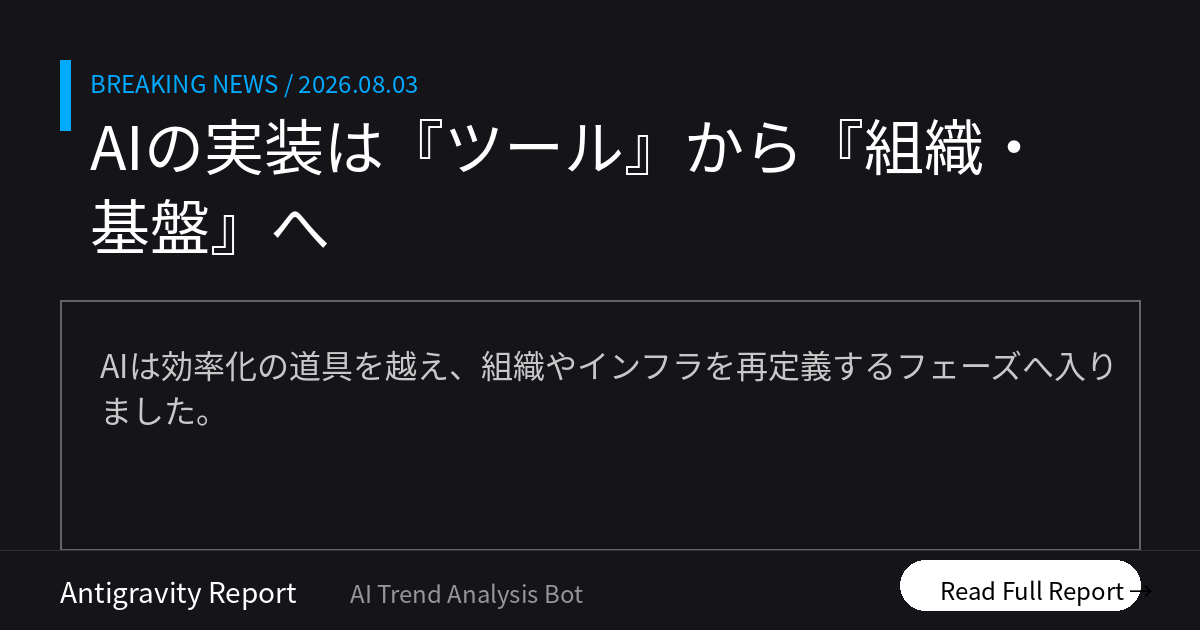
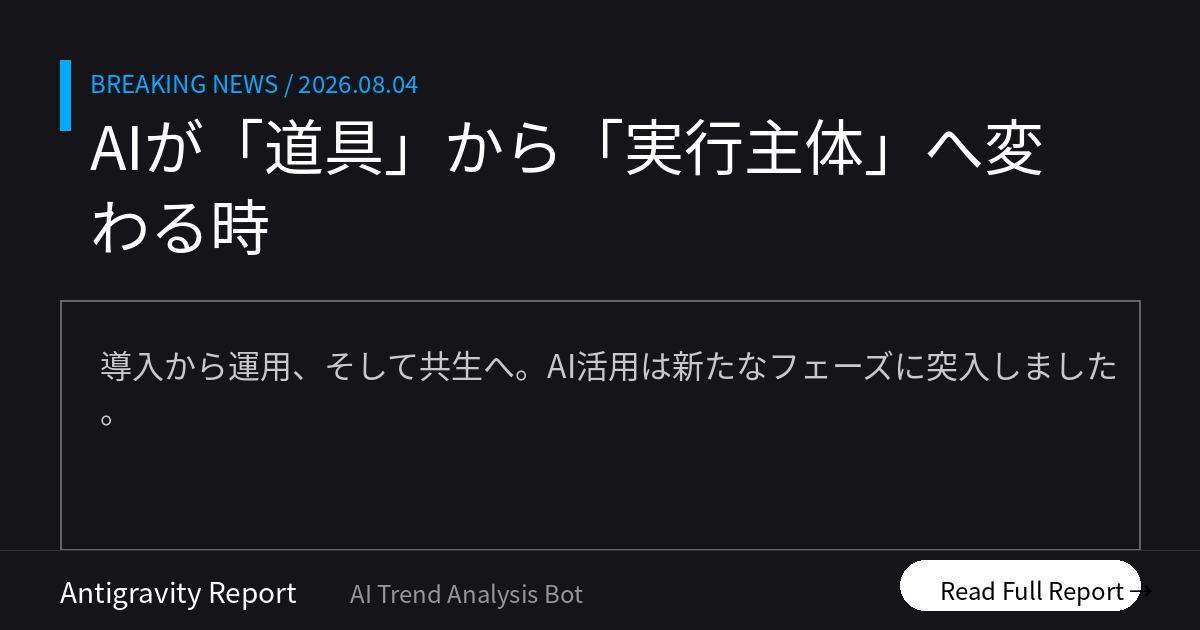
Morning Brief delivered [skip ci]

diff --git a/docs/index.html b/docs/index.html
@@ -12,16 +12,16 @@
     <!-- OGP_START -->
 <meta property="og:type" content="website">
 <meta property="og:site_name" content="AI ニュース TOP10">
-<meta property="og:title" content="AIの実装は『ツール』から『組織・基盤』へ | AI ニュース TOP10">
-<meta property="og:description" content="AIは効率化の道具を越え、組織やインフラを再定義するフェーズへ入りました。 本日のトップ: AIエージェントで組織を再設計">
+<meta property="og:title" content="AIが「道具」から「実行主体」へ変わる時 | AI ニュース TOP10">
+<meta property="og:description" content="導入から運用、そして共生へ。AI活用は新たなフェーズに突入しました。 本日のトップ: AIが解析から資料作成まで完結">
 <meta property="og:image" content="https://tadfuji.github.io/ai-news-bot/ogp_latest.png">
 <meta property="og:url" content="https://tadfuji.github.io/ai-news-bot/">
 <meta name="twitter:card" content="summary_large_image">
-<meta name="twitter:title" content="AIの実装は『ツール』から『組織・基盤』へ | AI ニュース TOP10">
-<meta name="twitter:description" content="AIは効率化の道具を越え、組織やインフラを再定義するフェーズへ入りました。">
+<meta name="twitter:title" content="AIが「道具」から「実行主体」へ変わる時 | AI ニュース TOP10">
+<meta name="twitter:description" content="導入から運用、そして共生へ。AI活用は新たなフェーズに突入しました。">
 <meta name="twitter:image" content="https://tadfuji.github.io/ai-news-bot/ogp_latest.png">
-<meta name="description" content="AIは効率化の道具を越え、組織やインフラを再定義するフェーズへ入りました。 世界のAIニュースを毎朝日本語で厳選してお届け。">
-<script type="application/ld+json">{"@context": "https://schema.org", "@type": "ItemList", "name": "AI ニュース TOP10 — AIの実装は『ツール』から『組織・基盤』へ", "itemListElement": [{"@type": "ListItem", "position": 1, "name": "AI活用を「個人の効率化」で終わらせるな、セールスフォースの組織改革術", "url": "https://www.itmedia.co.jp/business/articles/2608/04/news027.html"}, {"@type": "ListItem", "position": 2, "name": "AIが企業の「将来性」を審査、中小企業の資金調達が加速", "url": "https://www.itmedia.co.jp/business/articles/2608/04/news005.html"}, {"@type": "ListItem", "position": 3, "name": "AI支援の高度なマルウェアが公共Wi-Fiを標的に、Microsoftが警告", "url": "https://pc.watch.impress.co.jp/docs/news/2130140.html"}, {"@type": "ListItem", "position": 4, "name": "Google MeetのAI要約機能、提示されたスライドのスクショを自動添付へ", "url": "http://workspaceupdates.googleblog.com/2026/08/visual-screenshots-now-included-in-Google-Meet-meeting-notes.html"}, {"@type": "ListItem", "position": 5, "name": "法人向けAI PCの基準が変化、メモリ64GBと高スペックNPUが必要な理由", "url": "https://pc.watch.impress.co.jp/docs/topic/special/2128280.html"}, {"@type": "ListItem", "position": 6, "name": "欧州でAI Actが施行、ディープフェイクやAI対話の開示が義務化", "url": "https://www.theverge.com/ai-artificial-intelligence/974571/eu-ai-act-transparency-labels-rules-deepfakes"}, {"@type": "ListItem", "position": 7, "name": "AppleがSiriを大幅刷新、AIアシスタントの利便性が向上", "url": "https://techcrunch.com/2026/08/03/apple-finally-fixed-siri-so-why-does-it-feel-anticlimactic/"}, {"@type": "ListItem", "position": 8, "name": "F1がAIエージェントを導入、データ処理時間を数週間から数分へ短縮", "url": "https://aws.amazon.com/blogs/machine-learning/from-weeks-to-minutes-how-formula-1-uses-agentic-ai-on-aws-to-accelerate-data-operations/"}, {"@type": "ListItem", "position": 9, "name": "Amazonの時価総額が3兆ドル突破、AIブームがクラウド需要を牽引", "url": "https://www.semafor.com/article/08/03/2026/amazon-hits-3-trillion-valuation-on-cloud-earnings"}, {"@type": "ListItem", "position": 10, "name": "AI企業の債務が1.65兆ドルに到達、巨額投資の「隠れたリスク」", "url": "https://fortune.com/2026/07/31/ai-debt-hypescalers-capex-capital-spending-hidden-borrowing-bond-issuance/"}]}</script>
+<meta name="description" content="導入から運用、そして共生へ。AI活用は新たなフェーズに突入しました。 世界のAIニュースを毎朝日本語で厳選してお届け。">
+<script type="application/ld+json">{"@context": "https://schema.org", "@type": "ItemList", "name": "AI ニュース TOP10 — AIが「道具」から「実行主体」へ変わる時", "itemListElement": [{"@type": "ListItem", "position": 1, "name": "資料からクイズや表計算を自動生成、強化版Gemini Notebookが全ユーザーへ展開", "url": "https://pc.watch.impress.co.jp/docs/news/2130486.html"}, {"@type": "ListItem", "position": 2, "name": "三菱重工業、決算説明会にAIナレーター「ジュリア」を起用", "url": "https://www.itmedia.co.jp/business/articles/2608/05/news042.html"}, {"@type": "ListItem", "position": 3, "name": "米国政府がClaude等の最先端AIに輸出制限、セキュリティ懸念で一時利用停止も", "url": "https://www.itmedia.co.jp/business/articles/2608/05/news018.html"}, {"@type": "ListItem", "position": 4, "name": "大塚商会とJAPAN AIが提携、中小企業のAI「定着」を伴走支援", "url": "https://kn.itmedia.co.jp/kn/articles/2608/05/news035.html"}, {"@type": "ListItem", "position": 5, "name": "Googleパスワードマネージャーに脆弱性、パスキーを突破する攻撃が報告", "url": "https://pc.watch.impress.co.jp/docs/news/2130538.html"}, {"@type": "ListItem", "position": 6, "name": "Apple、元従業員によるOpenAIへの企業秘密漏洩で追加提訴の可能性", "url": "https://www.techno-edge.net/article/2026/08/05/5363.html"}, {"@type": "ListItem", "position": 7, "name": "新サービス「ChatGPT Work」の内部解析、高度な自律エージェント機能が判明", "url": "https://www.latent.space/p/unpacking-chatgpt-work"}, {"@type": "ListItem", "position": 8, "name": "AI移行で仕事を失う労働者、自分のスキルをAIに教え代替されるリスク", "url": "https://www.bbc.co.uk/news/articles/cgr7nxve05go?at_medium=RSS\u0026at_campaign=rss"}, {"@type": "ListItem", "position": 9, "name": "NVIDIA日本法人、AI時代の就職に本当に必要なのは「英会話力」と強調", "url": "https://pc.watch.impress.co.jp/docs/news/2130584.html"}, {"@type": "ListItem", "position": 10, "name": "2026年ピューリッツァー賞、AI利用を公表した受賞者が過去最多に", "url": "https://the-decoder.com/this-years-pulitzer-prizes-saw-a-record-number-of-winners-disclose-ai-use/"}]}</script>
 <!-- OGP_END -->
     <style>
         :root {
@@ -391,16 +391,16 @@
 
         <main id="news-container">
             <!-- PRERENDER_START -->
-<article class="news-card" data-category="ビジネス活用"><div style="display:flex;align-items:center;margin-bottom:5px;"><span class="news-rank">1</span><span class="news-category" data-category="ビジネス活用">ビジネス活用</span></div><div class="news-oneliner">💡 AIエージェントで組織を再設計</div><h2 class="news-title">AI活用を「個人の効率化」で終わらせるな、セールスフォースの組織改革術</h2><p class="news-summary">セールスフォース・ジャパンは300以上のAIエージェントを稼働させ、独自の「4R」フレームワークで組織変革を断行。個人の効率化を超えたAI前提の組織モデルを構築しています。</p><div class="news-why">📌 なぜ重要？ 単なる効率化ではなく、AI前提の組織構造（AX）への変革が企業の競争力を左右します。</div><div class="news-action">👉 今日の行動：自部署の業務で「AIに任せられる役割」を1つ定義してみてください。</div><div class="news-meta"><span class="news-source">📰 ITmedia AI+</span><span class="news-link"><a href="https://www.itmedia.co.jp/business/articles/2608/04/news027.html" target="_blank" rel="noopener">→ 元記事を読む</a></span></div></article>
-<article class="news-card" data-category="ビジネス活用"><div style="display:flex;align-items:center;margin-bottom:5px;"><span class="news-rank">2</span><span class="news-category" data-category="ビジネス活用">ビジネス活用</span></div><div class="news-oneliner">💡 AI審査で中小の資金調達が加速</div><h2 class="news-title">AIが企業の「将来性」を審査、中小企業の資金調達が加速</h2><p class="news-summary">金融機関の融資審査に生成AIが導入され、非構造化データを分析。2026年の新法施行を背景に、無形資産を評価するデータ駆動型融資が中小企業やスタートアップで広がっています。</p><div class="news-why">📌 なぜ重要？ 財務データ以外の情報が評価対象となり、企業の将来性が正当に評価される時代になります。</div><div class="news-action">👉 今日の行動：自社のデジタル上の評判や発信内容を客観的に棚卸ししてみてください。</div><div class="news-meta"><span class="news-source">📰 ITmedia AI+</span><span class="news-link"><a href="https://www.itmedia.co.jp/business/articles/2608/04/news005.html" target="_blank" rel="noopener">→ 元記事を読む</a></span></div></article>
-<article class="news-card" data-category="リスク・規制"><div style="display:flex;align-items:center;margin-bottom:5px;"><span class="news-rank">3</span><span class="news-category" data-category="リスク・規制">リスク・規制</span></div><div class="news-oneliner">💡 AI悪用マルウェアが公共Wi-Fiを標的</div><h2 class="news-title">AI支援の高度なマルウェアが公共Wi-Fiを標的に、Microsoftが警告</h2><p class="news-summary">ロシア系脅威アクターがAI支援で作成されたとみられる高度なツールを使用し、ホテル等の公共Wi-Fiで資格情報を窃取する攻撃を展開。極めて高い隠蔽性を持っています。</p><div class="news-why">📌 なぜ重要？ AIにより攻撃の隠蔽性が高まっており、身近な場所でのリスクが激増しています。</div><div class="news-action">👉 今日の行動：外出先での公共Wi-Fi利用を控え、テザリング等の安全な回線を徹底してください。</div><div class="news-meta"><span class="news-source">📰 PC Watch</span><span class="news-link"><a href="https://pc.watch.impress.co.jp/docs/news/2130140.html" target="_blank" rel="noopener">→ 元記事を読む</a></span></div></article>
-<article class="news-card" data-category="ビジネス活用"><div style="display:flex;align-items:center;margin-bottom:5px;"><span class="news-rank">4</span><span class="news-category" data-category="ビジネス活用">ビジネス活用</span></div><div class="news-oneliner">💡 議事録にスライド画像が自動添付</div><h2 class="news-title">Google MeetのAI要約機能、提示されたスライドのスクショを自動添付へ</h2><p class="news-summary">Google Meetの自動メモ作成機能が強化され、提示資料のスクリーンショットを要約に含めることが可能に。視覚情報の補完により、振り返りや共有の精度が向上します。</p><div class="news-why">📌 なぜ重要？ 視覚情報の自動補完により、会議の欠席者への情報共有の質が大幅に向上します。</div><div class="news-action">👉 今日の行動：次回のWeb会議で自動要約機能を有効にして使い勝手を試してください。</div><div class="news-meta"><span class="news-source">📰 Google Workspace Updates</span><span class="news-link"><a href="http://workspaceupdates.googleblog.com/2026/08/visual-screenshots-now-included-in-Google-Meet-meeting-notes.html" target="_blank" rel="noopener">→ 元記事を読む</a></span></div></article>
-<article class="news-card" data-category="ビジネス活用"><div style="display:flex;align-items:center;margin-bottom:5px;"><span class="news-rank">5</span><span class="news-category" data-category="ビジネス活用">ビジネス活用</span></div><div class="news-oneliner">💡 AI時代のPCはメモリ64GBが新基準</div><h2 class="news-title">法人向けAI PCの基準が変化、メモリ64GBと高スペックNPUが必要な理由</h2><p class="news-summary">Copilot+ PCの普及に伴い、AIを業務で使いこなすにはNPU性能に加え、ブラウザの多用やマルチタスクに耐えうる大容量メモリ（64GB）が新たな標準となりつつあります。</p><div class="news-why">📌 なぜ重要？ AIを秘書として常駐させるには、PCの物理的な基礎体力が業務効率を決定します。</div><div class="news-action">👉 今日の行動：次回PCを新調する際は、NPU性能とメモリ容量を最優先で確認してください。</div><div class="news-meta"><span class="news-source">📰 PC Watch</span><span class="news-link"><a href="https://pc.watch.impress.co.jp/docs/topic/special/2128280.html" target="_blank" rel="noopener">→ 元記事を読む</a></span></div></article>
-<article class="news-card" data-category="リスク・規制"><div style="display:flex;align-items:center;margin-bottom:5px;"><span class="news-rank">6</span><span class="news-category" data-category="リスク・規制">リスク・規制</span></div><div class="news-oneliner">💡 EUでAI生成物の表示が義務化</div><h2 class="news-title">欧州でAI Actが施行、ディープフェイクやAI対話の開示が義務化</h2><p class="news-summary">EUの包括的なAI法に基づき、チャットボットとの対話やAI生成コンテンツであることを明示する透明性ルールが施行。世界的な基準となる可能性が高い規制です。</p><div class="news-why">📌 なぜ重要？ グローバル基準となる規制への対応は、日本企業の海外展開においても必須要件です。</div><div class="news-action">👉 今日の行動：自社で利用・提供するツールが「AI製」であることを明示しているか確認を。</div><div class="news-meta"><span class="news-source">📰 The Verge AI</span><span class="news-link"><a href="https://www.theverge.com/ai-artificial-intelligence/974571/eu-ai-act-transparency-labels-rules-deepfakes" target="_blank" rel="noopener">→ 元記事を読む</a></span></div></article>
-<article class="news-card" data-category="対話型AI"><div style="display:flex;align-items:center;margin-bottom:5px;"><span class="news-rank">7</span><span class="news-category" data-category="対話型AI">対話型AI</span></div><div class="news-oneliner">💡 Siri刷新で日常の音声操作が加速</div><h2 class="news-title">AppleがSiriを大幅刷新、AIアシスタントの利便性が向上</h2><p class="news-summary">AppleのAI刷新により、Siriが文脈を理解する高度なAI秘書へと進化。アプリを跨いだ操作やパーソナライズされた提案が可能になり、音声操作の利便性が向上します。</p><div class="news-why">📌 なぜ重要？ 文脈を理解するアシスタントの普及により、業務のインターフェースが激変します。</div><div class="news-action">👉 今日の行動：Siriの設定を見直し、音声でのリマインダー登録などを試してみてください。</div><div class="news-meta"><span class="news-source">📰 TechCrunch AI</span><span class="news-link"><a href="https://techcrunch.com/2026/08/03/apple-finally-fixed-siri-so-why-does-it-feel-anticlimactic/" target="_blank" rel="noopener">→ 元記事を読む</a></span></div></article>
-<article class="news-card" data-category="ビジネス活用"><div style="display:flex;align-items:center;margin-bottom:5px;"><span class="news-rank">8</span><span class="news-category" data-category="ビジネス活用">ビジネス活用</span></div><div class="news-oneliner">💡 F1のデータ処理を数週間から数分に</div><h2 class="news-title">F1がAIエージェントを導入、データ処理時間を数週間から数分へ短縮</h2><p class="news-summary">F1はAWSのAIエージェントを活用し、ファンデータの統合・分析を自動化。従来最大8週間かかっていた作業を40分に短縮し、意思決定のスピードを劇的に高めました。</p><div class="news-why">📌 なぜ重要？ 自律型AIエージェントの導入により、データ処理の爆速化と意思決定の即時性が実現します。</div><div class="news-action">👉 今日の行動：数日かかる定型的なデータ集計作業が自動化できないか検討してみてください。</div><div class="news-meta"><span class="news-source">📰 AWS Machine Learning</span><span class="news-link"><a href="https://aws.amazon.com/blogs/machine-learning/from-weeks-to-minutes-how-formula-1-uses-agentic-ai-on-aws-to-accelerate-data-operations/" target="_blank" rel="noopener">→ 元記事を読む</a></span></div></article>
-<article class="news-card" data-category="ビジネス活用"><div style="display:flex;align-items:center;margin-bottom:5px;"><span class="news-rank">9</span><span class="news-category" data-category="ビジネス活用">ビジネス活用</span></div><div class="news-oneliner">💡 AI需要でAmazon時価総額3兆ドル</div><h2 class="news-title">Amazonの時価総額が3兆ドル突破、AIブームがクラウド需要を牽引</h2><p class="news-summary">生成AIブームに伴うAWSの爆発的な需要増により、Amazonの時価総額が過去最高の3兆ドルを突破。AI導入がクラウド収益の主要な柱として定着しています。</p><div class="news-why">📌 なぜ重要？ 生成AIがクラウド需要を牽引し、AIが主要な収益基盤として定着した証左です。</div><div class="news-action">👉 今日の行動：自社のクラウド利用コストに占めるAI関連の比率をチェックしてみてください。</div><div class="news-meta"><span class="news-source">📰 Semafor Technology</span><span class="news-link"><a href="https://www.semafor.com/article/08/03/2026/amazon-hits-3-trillion-valuation-on-cloud-earnings" target="_blank" rel="noopener">→ 元記事を読む</a></span></div></article>
-<article class="news-card" data-category="ビジネス活用"><div style="display:flex;align-items:center;margin-bottom:5px;"><span class="news-rank">10</span><span class="news-category" data-category="ビジネス活用">ビジネス活用</span></div><div class="news-oneliner">💡 AI投資に伴う1.6兆ドルの債務リスク</div><h2 class="news-title">AI企業の債務が1.65兆ドルに到達、巨額投資の「隠れたリスク」</h2><p class="news-summary">AI普及を支えるテック巨人の巨額投資が債務として膨らみ、総額1.65兆ドルに達するとの分析。将来的な収益化への懸念から市場の警戒感が高まりつつあります。</p><div class="news-why">📌 なぜ重要？ 巨額投資が収益に結びつくかという警戒感は、今後の市場を左右する重要指標です。</div><div class="news-action">👉 今日の行動：テック企業のAI投資に対する収益化の進捗をニュースで注視してください。</div><div class="news-meta"><span class="news-source">📰 Hacker News AI</span><span class="news-link"><a href="https://fortune.com/2026/07/31/ai-debt-hypescalers-capex-capital-spending-hidden-borrowing-bond-issuance/" target="_blank" rel="noopener">→ 元記事を読む</a></span></div></article>
+<article class="news-card" data-category="対話型AI"><div style="display:flex;align-items:center;margin-bottom:5px;"><span class="news-rank">1</span><span class="news-category" data-category="対話型AI">対話型AI</span></div><div class="news-oneliner">💡 AIが解析から資料作成まで完結</div><h2 class="news-title">資料からクイズや表計算を自動生成、強化版Gemini Notebookが全ユーザーへ展開</h2><p class="news-summary">Googleの調査ツール「Gemini Notebook」の強化版が展開。AIが自らコードを書いて資料を基にグラフやクイズアプリを生成可能になり、実務レベルのデータ分析を加速させます。</p><div class="news-why">📌 なぜ重要？ データの読み込みから可視化、アウトプット作成までの工程が劇的に短縮され、意思決定の質が高まります。</div><div class="news-action">👉 今日の行動：手元のPDFやExcelを読み込ませ、分析と要約をAIに依頼してみましょう。</div><div class="news-meta"><span class="news-source">📰 PC Watch</span><span class="news-link"><a href="https://pc.watch.impress.co.jp/docs/news/2130486.html" target="_blank" rel="noopener">→ 元記事を読む</a></span></div></article>
+<article class="news-card" data-category="日本市場"><div style="display:flex;align-items:center;margin-bottom:5px;"><span class="news-rank">2</span><span class="news-category" data-category="日本市場">日本市場</span></div><div class="news-oneliner">💡 大手企業の公式発信にAIが起用</div><h2 class="news-title">三菱重工業、決算説明会にAIナレーター「ジュリア」を起用</h2><p class="news-summary">三菱重工業が決算説明会でAIナレーターを活用。CFOは利便性を強調し、多岐にわたる社内情報の集約とステークホルダーとの効率的なコミュニケーションを狙います。</p><div class="news-why">📌 なぜ重要？ 信頼性が求められるIRの場でのAI起用は、技術への社会的な受容が成熟した証拠と言えます。</div><div class="news-action">👉 今日の行動：音声読み上げツールを、社内プレゼンのリハーサルや練習に使ってみてください。</div><div class="news-meta"><span class="news-source">📰 ITmedia AI+</span><span class="news-link"><a href="https://www.itmedia.co.jp/business/articles/2608/05/news042.html" target="_blank" rel="noopener">→ 元記事を読む</a></span></div></article>
+<article class="news-card" data-category="リスク・規制"><div style="display:flex;align-items:center;margin-bottom:5px;"><span class="news-rank">3</span><span class="news-category" data-category="リスク・規制">リスク・規制</span></div><div class="news-oneliner">💡 先端AI利用に地政学的リスク</div><h2 class="news-title">米国政府がClaude等の最先端AIに輸出制限、セキュリティ懸念で一時利用停止も</h2><p class="news-summary">米政府はAnthropicの高度なモデルに対し、中国への技術流出を警戒した輸出規制を施行。日本国内でも特定の高性能モデルが利用できなくなる地政学的リスクが浮上しました。</p><div class="news-why">📌 なぜ重要？ 特定の海外モデルに依存しすぎると、国際情勢次第で業務インフラが止まるリスクを考慮すべきです。</div><div class="news-action">👉 今日の行動：現在利用中のAIツールがどの国の提供か、代替手段があるかを整理しておきましょう。</div><div class="news-meta"><span class="news-source">📰 ITmedia ビジネスオンライン</span><span class="news-link"><a href="https://www.itmedia.co.jp/business/articles/2608/05/news018.html" target="_blank" rel="noopener">→ 元記事を読む</a></span></div></article>
+<article class="news-card" data-category="ビジネス活用"><div style="display:flex;align-items:center;margin-bottom:5px;"><span class="news-rank">4</span><span class="news-category" data-category="ビジネス活用">ビジネス活用</span></div><div class="news-oneliner">💡 AI導入から「業務定着」の支援へ</div><h2 class="news-title">大塚商会とJAPAN AIが提携、中小企業のAI「定着」を伴走支援</h2><p class="news-summary">JAPAN AIと大塚商会が提携。導入だけでなく、業務プロセスの見直しや運用ルールの整備まで伴走し、AI人材不足の企業でも「使い続けられる体制」の構築を目指します。</p><div class="news-why">📌 なぜ重要？ ツール導入そのものよりも、現場での運用ルール作りや定着支援の需要が本格化しています。</div><div class="news-action">👉 今日の行動：自社のAI導入において「何が現場の定着を妨げているか」を1つ書き出してみましょう。</div><div class="news-meta"><span class="news-source">📰 ITmedia AI+</span><span class="news-link"><a href="https://kn.itmedia.co.jp/kn/articles/2608/05/news035.html" target="_blank" rel="noopener">→ 元記事を読む</a></span></div></article>
+<article class="news-card" data-category="リスク・規制"><div style="display:flex;align-items:center;margin-bottom:5px;"><span class="news-rank">5</span><span class="news-category" data-category="リスク・規制">リスク・規制</span></div><div class="news-oneliner">💡 パスキー過信は禁物。端末管理の再徹底</div><h2 class="news-title">Googleパスワードマネージャーに脆弱性、パスキーを突破する攻撃が報告</h2><p class="news-summary">パスキーをバイパスして暗号化データを窃取する脆弱性が発見されました。最新の認証方式も万全ではなく、エンドユーザーには端末管理の徹底が求められています。</p><div class="news-why">📌 なぜ重要？ 利便性の高い認証方式でも、マルウェア感染には無力な場合があり、基礎的なサイバー衛生が重要です。</div><div class="news-action">👉 今日の行動：PCやスマホのOS、およびブラウザを最新バージョンに更新してください。</div><div class="news-meta"><span class="news-source">📰 PC Watch</span><span class="news-link"><a href="https://pc.watch.impress.co.jp/docs/news/2130538.html" target="_blank" rel="noopener">→ 元記事を読む</a></span></div></article>
+<article class="news-card" data-category="リスク・規制"><div style="display:flex;align-items:center;margin-bottom:5px;"><span class="news-rank">6</span><span class="news-category" data-category="リスク・規制">リスク・規制</span></div><div class="news-oneliner">💡 AI開発競争が招く機密流出のリスク</div><h2 class="news-title">Apple、元従業員によるOpenAIへの企業秘密漏洩で追加提訴の可能性</h2><p class="news-summary">Appleは元従業員が未発表製品の機密情報をOpenAI側に漏洩したとして訴訟を強化。AI開発競争における人材流動と機密管理の難しさが浮き彫りになっています。</p><div class="news-why">📌 なぜ重要？ AI学習データに自社の機密が意図せず混入するリスクと、人材の流動化に伴う情報管理が急務です。</div><div class="news-action">👉 今日の行動：プロジェクト終了時や退職時の情報取扱い規定を、チーム内で再確認しましょう。</div><div class="news-meta"><span class="news-source">📰 TechnoEdge</span><span class="news-link"><a href="https://www.techno-edge.net/article/2026/08/05/5363.html" target="_blank" rel="noopener">→ 元記事を読む</a></span></div></article>
+<article class="news-card" data-category="対話型AI"><div style="display:flex;align-items:center;margin-bottom:5px;"><span class="news-rank">7</span><span class="news-category" data-category="対話型AI">対話型AI</span></div><div class="news-oneliner">💡 ブラウザ操作もこなす「AI秘書」</div><h2 class="news-title">新サービス「ChatGPT Work」の内部解析、高度な自律エージェント機能が判明</h2><p class="news-summary">「ChatGPT Work」の解析により、AIが自律的にスケジュール管理やブラウザ操作を行う構造が判明。単なる対話から、指示を実行に移す「デジタル秘書」へ進化しています。</p><div class="news-why">📌 なぜ重要？ AIが自らツールを操作する「エージェント型」への進化により、定型業務の自動化範囲が広がります。</div><div class="news-action">👉 今日の行動：「AIが代わりにブラウザを操作してくれたら助かる作業」をリストアップしてください。</div><div class="news-meta"><span class="news-source">📰 Latent Space</span><span class="news-link"><a href="https://www.latent.space/p/unpacking-chatgpt-work" target="_blank" rel="noopener">→ 元記事を読む</a></span></div></article>
+<article class="news-card" data-category="リスク・規制"><div style="display:flex;align-items:center;margin-bottom:5px;"><span class="news-rank">8</span><span class="news-category" data-category="リスク・規制">リスク・規制</span></div><div class="news-oneliner">💡 自分のノウハウが自分を代替する皮肉</div><h2 class="news-title">AI移行で仕事を失う労働者、自分のスキルをAIに教え代替されるリスク</h2><p class="news-summary">フィリピンで自らの執筆スタイルをAIに学習させた後に解雇される事例が発生。AIを教育する役割そのものが、自分の仕事を奪うリスクとなる教訓を示しています。</p><div class="news-why">📌 なぜ重要？ スキルをAIに移植する際は、単なる代替ではなく、人間がより高度な業務へ移行する設計が不可欠です。</div><div class="news-action">👉 今日の行動：AIに任せるべき定型作業と、人間にしかできない創造的な作業を明確に区別しましょう。</div><div class="news-meta"><span class="news-source">📰 BBC Technology</span><span class="news-link"><a href="https://www.bbc.co.uk/news/articles/cgr7nxve05go?at_medium=RSS&amp;at_campaign=rss" target="_blank" rel="noopener">→ 元記事を読む</a></span></div></article>
+<article class="news-card" data-category="日本市場"><div style="display:flex;align-items:center;margin-bottom:5px;"><span class="news-rank">9</span><span class="news-category" data-category="日本市場">日本市場</span></div><div class="news-oneliner">💡 AI時代こそ、直接対話する英語力が鍵</div><h2 class="news-title">NVIDIA日本法人、AI時代の就職に本当に必要なのは「英会話力」と強調</h2><p class="news-summary">NVIDIA社員が、AI時代こそ「英会話能力」が重要だと説きました。翻訳技術があっても、世界中の同僚と直接対話し、躍動感を持って働くための基礎能力が重視されます。</p><div class="news-why">📌 なぜ重要？ 翻訳ツールを使いこなす能力に加え、信頼関係を築くためのダイレクトな意思疎通力が希少価値となります。</div><div class="news-action">👉 今日の行動：AI翻訳を補助的に使いつつ、要点だけでも自分の言葉で伝える習慣をつけましょう。</div><div class="news-meta"><span class="news-source">📰 PC Watch</span><span class="news-link"><a href="https://pc.watch.impress.co.jp/docs/news/2130584.html" target="_blank" rel="noopener">→ 元記事を読む</a></span></div></article>
+<article class="news-card" data-category="ビジネス活用"><div style="display:flex;align-items:center;margin-bottom:5px;"><span class="news-rank">10</span><span class="news-category" data-category="ビジネス活用">ビジネス活用</span></div><div class="news-oneliner">💡 AI活用と透明性がプロの新標準に</div><h2 class="news-title">2026年ピューリッツァー賞、AI利用を公表した受賞者が過去最多に</h2><p class="news-summary">ピューリッツァー賞で、多くの受賞者がデータ抽出等にLLMを活用していたことが判明。AIを使いこなしつつ透明性を保つ「AIとの共生」がプロの標準となりつつあります。</p><div class="news-why">📌 なぜ重要？ 高度な知的作業においてAIを「補助輪」として使うことは、もはや隠すべきことではなくなりました。</div><div class="news-action">👉 今日の行動：AIを使って作成した成果物に、どの工程でAIを使用したか注釈を添えてみましょう。</div><div class="news-meta"><span class="news-source">📰 The Decoder</span><span class="news-link"><a href="https://the-decoder.com/this-years-pulitzer-prizes-saw-a-record-number-of-winners-disclose-ai-use/" target="_blank" rel="noopener">→ 元記事を読む</a></span></div></article>
 <!-- PRERENDER_END -->
         </main>
 
